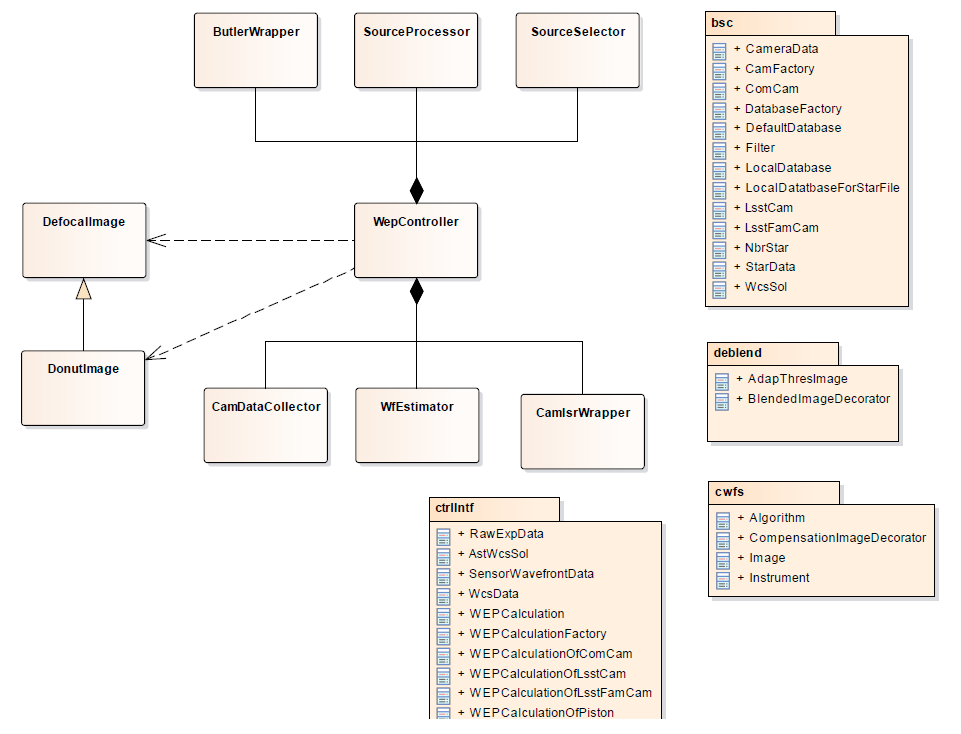
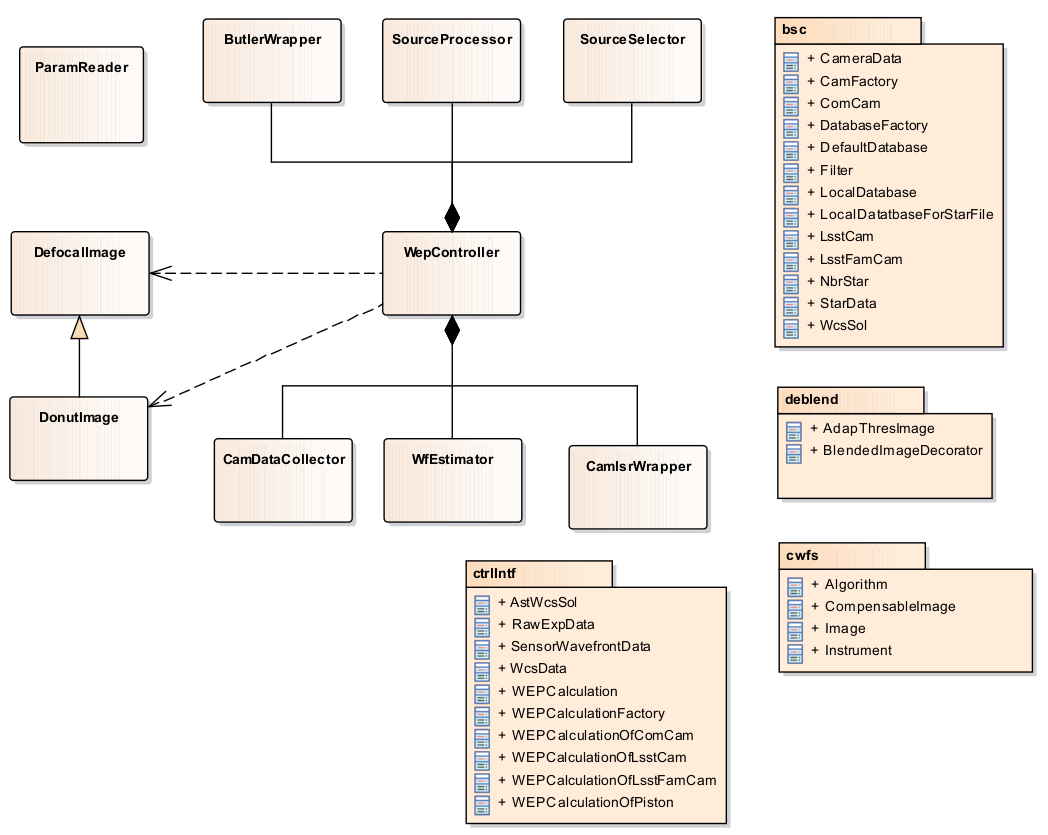
Update the README.md to reflect the yaml file update.

diff --git a/README.md b/README.md
@@ -11,23 +11,23 @@ Author: Te-Wei Tsai
 ## 2. Platform
 
 - *CentOS 7*
-- *python: 3.6.6*
+- *python: 3.7.2*
 - *scientific pipeline (newinstall.sh from master branch)*
 
 ## 3. Needed Package
 
-- *lsst_sims (tag: sims_w_2019_12)*
-- *lsst_distrib (tag: w_2019_12)*
+- *lsst_sims (tag: sims_w_2019_15)*
+- *lsst_distrib (tag: w_2019_15)*
 - *phosim_utils - master branch (commit: 7b02084)*
 - *scikit-image*
 
 ## 4. Install the LSST Packages, phosim_utils, and ts_wep
 
 *1. Setup the LSST environment by `source $LSST_DIR/loadLSST.bash`. LSST_DIR is the directory of scientific pipeline.* \
-*2. Install the lsst_sims by `eups distrib install lsst_sims -t sims_w_2019_12`.* \
-*3. Install the lsst_distrib by `eups distrib install lsst_distrib -t w_2019_12`.* \
+*2. Install the lsst_sims by `eups distrib install lsst_sims -t sims_w_2019_15`.* \
+*3. Install the lsst_distrib by `eups distrib install lsst_distrib -t w_2019_15`.* \
 *4. Fix the path by `curl -sSL https://raw.githubusercontent.com/lsst/shebangtron/master/shebangtron | python`. The [shebangtron repo](https://github.com/lsst/shebangtron) has the further discussion of this.* \
-*5. Clone the repository of [phosim_utils](https://github.com/lsst-dm/phosim_utils.git) to some other directory. Under the phosim_utils directory, use `setup -k -r . -t sims_w_2019_12` to setup the package in eups and use `scons` to build the module. It is noted that the build process is only needed for the first time.* \
+*5. Clone the repository of [phosim_utils](https://github.com/lsst-dm/phosim_utils.git) to some other directory. Under the phosim_utils directory, use `setup -k -r . -t sims_w_2019_15` to setup the package in eups and use `scons` to build the module. It is noted that the build process is only needed for the first time.* \
 *6. Undet the directory of ts_wep, do:*
 
 ```bash
@@ -37,7 +37,7 @@ scons
 
 ## 5. Pull the Built Image from Docker Hub
 
-*Pull the built docker image by `docker pull lsstts/aos:w_2019_12`. The scientific pipeline and lsst packages are installed already. For the details of docker image, please follow the [docker aos image](https://hub.docker.com/r/lsstts/aos).*
+*Pull the built docker image by `docker pull lsstts/aos:w_2019_15`. The scientific pipeline and lsst packages are installed already. For the details of docker image, please follow the [docker aos image](https://hub.docker.com/r/lsstts/aos).*
 
 ## 6. DM Command Line Task (obs_lsst and phosim_utils)
 
@@ -89,7 +89,7 @@ runIsr.py input --id --rerun=run1 --configfile isr_config.py
 ```bash
 source $path_of_lsst_scientific_pipeline/loadLSST.bash
 cd $path_of_phosim_utils
-setup -k -r . -t sims_w_2019_12
+setup -k -r . -t sims_w_2019_15
 ```
 
 *2. Setup the WEP environment.*

diff --git a/doc/Content.md b/doc/Content.md
@@ -13,6 +13,7 @@
 - **WepController**: High level class to use the WEP package.
 - **Utility**: Utility functions used in WEP.
 - **PlotUtil**: Plot utility functions used in WEP.
+- **ParamReader**: Parameter reader class to read the yaml configuration files used in the calculation.
 
 *There are the following modules in WEP:*
 
@@ -39,7 +40,7 @@
 
 - **Curvature Wavefront Sensor (cwfs)**: This module calculates the wavefront error by solving the TIE. The class diagram is [here](./cwfsClassDiag.png).
   - **Algorithm**: Algorithm class to solve the TIE to get the wavefront error.
-  - **CompensationImageDecorator**: Compensation image decorator class to project the donut image from the image plane to the pupil plane.
+  - **CompensableImage**: Compensable image class to project the donut image from the image plane to the pupil plane.
   - **Image**: Image class to have the function to get the donut center.
   - **Instrument**: Instrument class to have the instrument information used in the Algorithm class to solve the TIE.
   - **Tool**: Annular Zernike polynomials related functions.

diff --git a/doc/VersionHistory.md b/doc/VersionHistory.md
@@ -1,5 +1,8 @@
 # Version History
 
+*Version 1.2.4* \
+*Use the yaml format for configuration files of cwfs module. Use sims_w_2019_15.*
+
 *Version 1.2.3* \
 *Add the eups as the package manager. Use sims_w_2019_12.*
 
